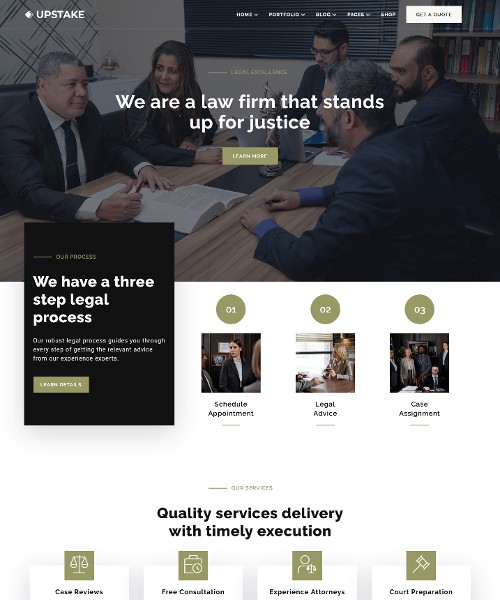
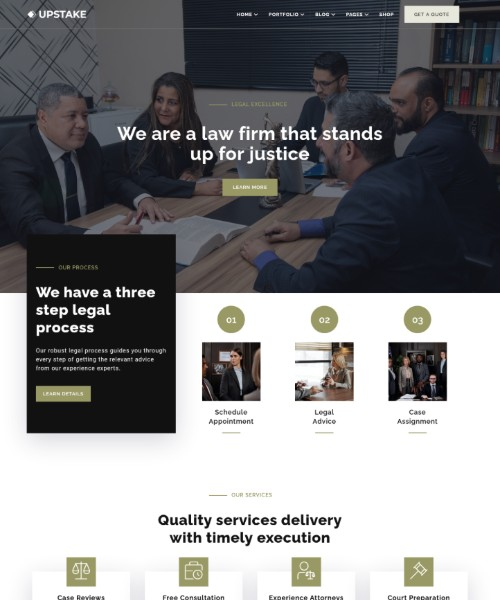
add files

diff --git a/law-firm.css b/law-firm.css
@@ -3,7 +3,7 @@ Main Stylesheet
 
 Project:    Upstake - Multipurpose Website Template
 Version:    1.0
-Last change:    02/06/2026
+Last change:    30/06/2026
 Author:    creativemaze
 Primary use:    Law Firm
 -------------------------------------------------------------------*/
@@ -245,6 +245,13 @@ ul{
 	justify-content: flex-end;
 }
 
+.header-item-right {
+	display: flex;
+    flex: 0 0 3%;
+    align-items: center;
+    justify-content: flex-end;
+}
+
 .head_btn{
 	max-width: 200px;
 	display: inline-block;
@@ -425,7 +432,6 @@ ul{
 /* --- 2.2. Header Content --- */
 .sliderwrap{
 	position: relative;
-	top: -140px;
 }
 
 .header__content{
@@ -570,14 +576,14 @@ ul{
 	padding: 10px 25px 30px;
 	box-shadow: 0 20px 70px rgba(38,42,76,.2);
 	background-color: #111111;
-	margin-top: -300px;
+	margin-top: -160px;
 }
 
 .law_right_col{
 	flex: 66.66%;
 	width: 66.66%;
 	padding: 0 25px;
-	margin: -150px auto 0;
+	margin: -10px auto 0;
 }
 
 .sub_info{
@@ -688,8 +694,8 @@ ul{
 }
 
 .list_num{
-	width: 80px;
-	height: 80px;
+	width: 75px;
+	height: 75px;
 	margin: 25px auto 25px;
 	background-color: #999966;
 	border-radius: 50%;
@@ -795,7 +801,7 @@ ul{
 	letter-spacing: 1px;
 	text-align: center;
 	line-height: 1.5em;
-	padding: 12px 0;
+	padding: 10px 0 12px;
 }
 
 .icon_box .plus_link{
@@ -807,7 +813,7 @@ ul{
 	color: #ffffff;
 	margin-top: -7px;
 	background-color: #111111;
-	padding: 8px 10px;
+	padding: 7px 10px;
 	border-radius: 50%;
 	transition: 0.5s;
 }
@@ -1076,7 +1082,7 @@ ul{
 .slick-dots{
 	position: relative;
 	z-index: 999999;
-	bottom: -30px;
+	bottom: -20px;
 	display: flex;
 	justify-content: center;
 	margin: 0;
@@ -1087,7 +1093,8 @@ ul{
 .slick-dots button{
 	width: 1rem;
 	height: 1rem;
-	padding: 0;		
+	padding: 0;
+	cursor: pointer;	
 	border: solid 1px #6f6f6f;
 	border-radius: 100%;
 	background-color: transparent;
@@ -1447,7 +1454,7 @@ li.slick-active button{
 /* --- 3.7. Law Area Seven --- */
 .law_area_seven{
 	max-width: 1200px;
-	margin: -95px auto 9em;
+	margin: -100px auto 9em;
 	padding: 0 25px;
 }
 
@@ -1676,7 +1683,7 @@ li.slick-active button{
 .blog_col{
 	flex: 33.33%;
 	width: 33.33%;
-	padding: 30px 20px 0;
+	padding: 35px 20px 0;
 }
 
 .blog_box{
@@ -1785,7 +1792,7 @@ a.blog_btn:hover{
 .law_area_ten{
 	max-width: 1200px;
 	width: calc(100% - 50px);
-	margin: 0 auto -12em;
+	margin: 0 auto -11em;
 	position: relative;
 	z-index: 999;
 	min-height: 325px;
@@ -1881,7 +1888,7 @@ a.blog_btn:hover{
 	padding: 0 25px;
 	display: flex;
 	flex-wrap: wrap;
-	padding-top: 12em;
+	padding-top: 11em;
 }
 
 .footer_col{
@@ -2328,6 +2335,7 @@ a.footer-logo img{
 	.law_left_col{
 		flex: 100%;
 		width: 100%;
+		padding: 45px 25px;
 	}
 	
 	.law_right_col{
